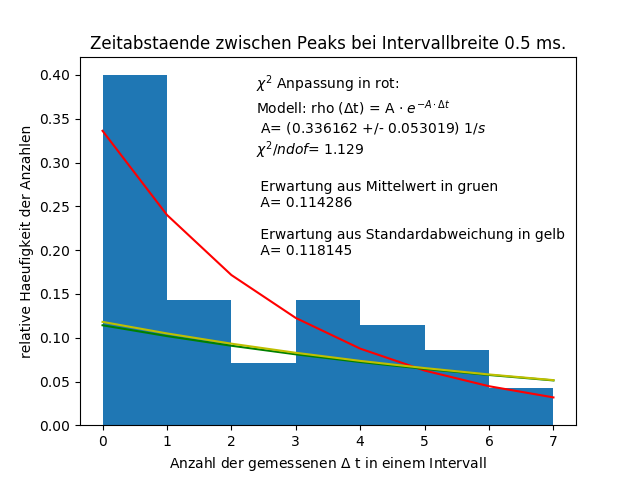
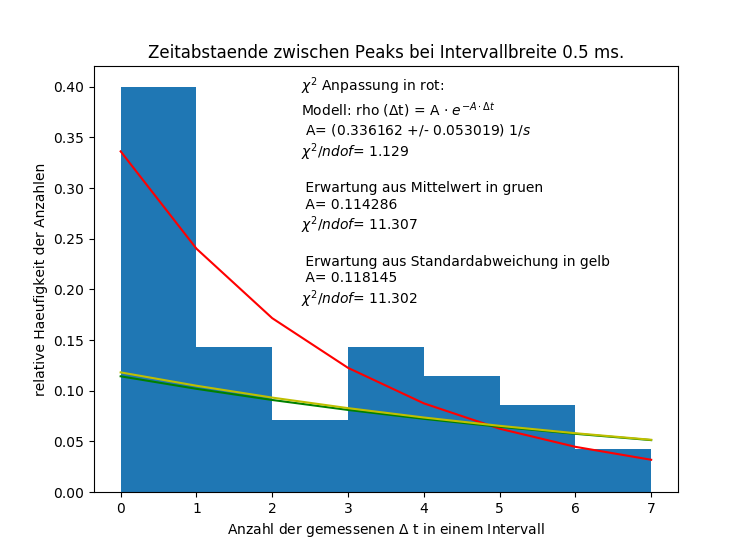
Auswertung Statistik bis auf poisson fertig

diff --git a/T07/Protokoll/Gasdetektoren.tex b/T07/Protokoll/Gasdetektoren.tex
@@ -85,18 +85,18 @@ P(\Delta t) = A \cdot e^{- A \Delta t}
 
 \begin{table}
 \centering
-\begin{tabular}{|c|c|c|}
+\begin{tabular}{|c|c|c|c|}
 \hline 
-Art & Poisson Parameter & $\chi ^2$ /ndof \\ 
+Art & Poisson Parameter & $\chi ^2$ /ndof & P($\chi ^2$) \\ 
 \hline 
-Mittelwertbestimmung & 1,0900 & 45,850 \\ 
+Mittelwertbestimmung & 1,0900 & 45,850 & 0\% \\ 
 \hline 
-Bestimmung der Standardabweichung & 0,9918 & 45,827 \\ 
+Bestimmung der Standardabweichung & 0,9918 & 45,827 & 0\% \\ 
 \hline 
-$\chi ^2$ Anpassung & 0,9332 $\pm$ 0,3689 & 11,125 \\ 
+$\chi ^2$ Anpassung & 0,9332 $\pm$ 0,3689 & 11,125 & 0\% \\ 
 \hline 
 \end{tabular} 
-\caption{Poisson Parameter und $\chi ^2$ aus den verschiedenen Bestimmungsmethoden.}
+\caption{Poisson Parameter und $\chi ^2$ aus den verschiedenen Bestimmungsmethoden der Poissonverteilung. In der letzten Spalte ist eine geschätzte Wahrscheinlichkeit für den Wert des $\chi ^2$ angegeben.}
 \label{tab:Poisson}
 \end{table}
 
@@ -126,21 +126,21 @@ Tabelle \ref{tab:Poisson} zeigt die Ergebnisse aus den verschiedenen Methoden zu
 
 \begin{table}
 \centering
-\begin{tabular}{|c|c|c|c|}
+\begin{tabular}{|c|c|c|c|c|}
 \hline 
-Art & Mittelwert & Standardabweichung & $\chi ^2$ /ndof \\ 
+Art & Mittelwert & Standardabweichung & $\chi ^2$ /ndof & P($\chi ^2$) \\ 
 \hline 
-Bestimmung von $\sigma$ und $\mu$ & 27,375 & 4,611 & 0,688 \\ 
+Bestimmung von $\sigma$ und $\mu$ & 27,375 & 4,611 & 0,688 & 30\% \\ 
 \hline 
-$\chi ^2$ Anpassung & 27,286 $\pm$ 0,307 & 4,578 $\pm$ 0,260 & 0,705 \\ 
+$\chi ^2$ Anpassung & 27,286 $\pm$ 0,307 & 4,578 $\pm$ 0,260 & 0,705 & 30\% \\ 
 \hline 
 \end{tabular} 
-\caption{Mittelwert, Standardabweichung und $\chi ^2$ aus den verschiedenen Bestimmungsmethoden.}
+\caption{Mittelwert, Standardabweichung und $\chi ^2$ aus den verschiedenen Bestimmungsmethoden der Gaußverteilung. In der letzten Spalte ist eine geschätzte Wahrscheinlichkeit für den Wert des $\chi ^2$ angegeben.}
 \label{tab:Gauss}
 \end{table}
 
-Das Verfahren bei der Gaußverteilung ist identisch zu dem Verfahren bei der Poissonverteilung. Abbildung \ref{fig:gauss} zeigt das Ergebnis. Hier ist in rot die $\chi ^2$ Anpassung und die Erwartung aus Mittelwert und Standardabweichung in grün. Hier gibt es nur eine Erwartung, weil für die Bestimmung der Gaußverteilung Mittelwert und Standardabweichung notwendig sind.\\
-Tabelle \ref{tab:Gauss} zeigt die Werte für Mittelwert, Standardabweichung und $\chi ^2$, die sich aus dem Fit und aus der Erwartung durch Bestimmung von Standardabweichung und Mittelwert ergibt. Die Werte für Mittelwert und Standardabweichung stimmen sehr gut überein und die $\chi ^2$ liegen ebenfalls sehr nah beieinander. Die Wahrscheinlichkeit für ein $\chi ^2$ pro Freiheitsgrad von 0,7 liegt ungefähr bei 30\%.
+Das Verfahren bei der Gaußverteilung ist identisch zu dem Verfahren bei der Poissonverteilung. Abbildung \ref{fig:gauss} zeigt das Ergebnis. Hier ist in rot die $\chi ^2$ Anpassung und die Erwartung aus Mittelwert und Standardabweichung in grün. In diesem Fall gibt es nur eine Erwartung, weil für die Bestimmung der Gaußverteilung Mittelwert und Standardabweichung notwendig sind.\\
+Tabelle \ref{tab:Gauss} zeigt die Werte für Mittelwert, Standardabweichung und $\chi ^2$, die sich aus dem Fit und aus der Erwartung durch Bestimmung von Standardabweichung und Mittelwert ergibt. Die Werte für Mittelwert und Standardabweichung stimmen sehr gut überein und die $\chi ^2$ liegen ebenfalls sehr nah beieinander. Die Wahrscheinlichkeit für ein $\chi ^2$ pro Freiheitsgrad von 0,7 liegt ungefähr bei 30\%, daher kann von einer guten Messung gesprochen werden.
 
 
 \subsubsection{Exponentialverteilung}
@@ -151,7 +151,25 @@ Tabelle \ref{tab:Gauss} zeigt die Werte für Mittelwert, Standardabweichung und 
 \label{fig:exponential}
 \end{figure}
 
-Für die Auswertung der Exponentialverteilung werden die gemessenen Zeitabstände zunächst in sinnvolle Intervalle zusammengefasst. Die Anzahl der gemessenen $\Delta t$, die in diesem Intervall liegen werden auf die x-Achse aufgetragen. Die Anzahl der Intervalle mit der gleichen Anzahl der gemessenen $\Delta t$ wird auf die y-Achse aufgetragen. Dabei wird wieder normiert. Abbildung \ref{fig:exponential} zeigt das Ergebnis.
+\begin{table}
+\centering
+\begin{tabular}{|c|c|c|c|}
+\hline 
+Art & Exponentialparameter & $\chi ^2$ /ndof & P($\chi ^2$) \\ 
+\hline 
+Bestimmung von $\mu$ & 0,1143 & 11,307 & 0\% \\ 
+\hline 
+Bestimmung von $\sigma$ & 0,1181 & 11,302 & 0\% \\ 
+\hline 
+$\chi ^2$ Anpassung & 0,3362 $\pm$ 0,053 & 1,129 & 22\% \\ 
+\hline 
+\end{tabular} 
+\caption{Exponential Parameter und $\chi ^2$ aus den verschiedenen Bestimmungsmethoden der Exponentialverteilung. In der letzten Spalte ist eine geschätzte Wahrscheinlichkeit für den Wert des $\chi ^2$ angegeben.}
+\label{tab:Exponential}
+\end{table}
+
+Für die Auswertung der Exponentialverteilung werden die gemessenen Zeitabstände zunächst in sinnvolle Intervalle zusammengefasst. Die Anzahl der gemessenen $\Delta t$, die in diesem Intervall liegen werden auf die x-Achse aufgetragen. Die Anzahl der Intervalle mit der gleichen Anzahl der gemessenen $\Delta t$ wird auf die y-Achse aufgetragen. Dabei wird wieder normiert. Abbildung \ref{fig:exponential} zeigt das Ergebnis. Hier gibt es wieder zwei Erwartungen aus Bestimmung des Mittelwertes (grün) und Bestimmung der Standardabweichung (gelb). Die $\chi ^2$ Anpassung ist wieder in rot eingezeichnet.\\
+Tabelle \ref{tab:Exponential} zeigt die Ergebnisse für den Exponentialparameter und das $\chi ^2$ pro Freiheitsgrad für die verschiedenen Bestimmungsmethoden. Auffällig ist, dass die Exponentialparameter aus den Bestimmungen von Mittelwert und Standardabweichung nah beieinander liegen, der Wert aus der $\chi ^2$ Anpassung jedoch deutlich von diesen abweicht. Das $\chi ^2$ ist bei der Anpassung deutlich besser, als bei den Bestimmungen von Mittelwert und Standardabweichung, sodass davon ausgegangen werden kann, dass der Wert aus der Anpassung näher am echten Wert liegt.
 
 \section{Zusammenfassung}
 
